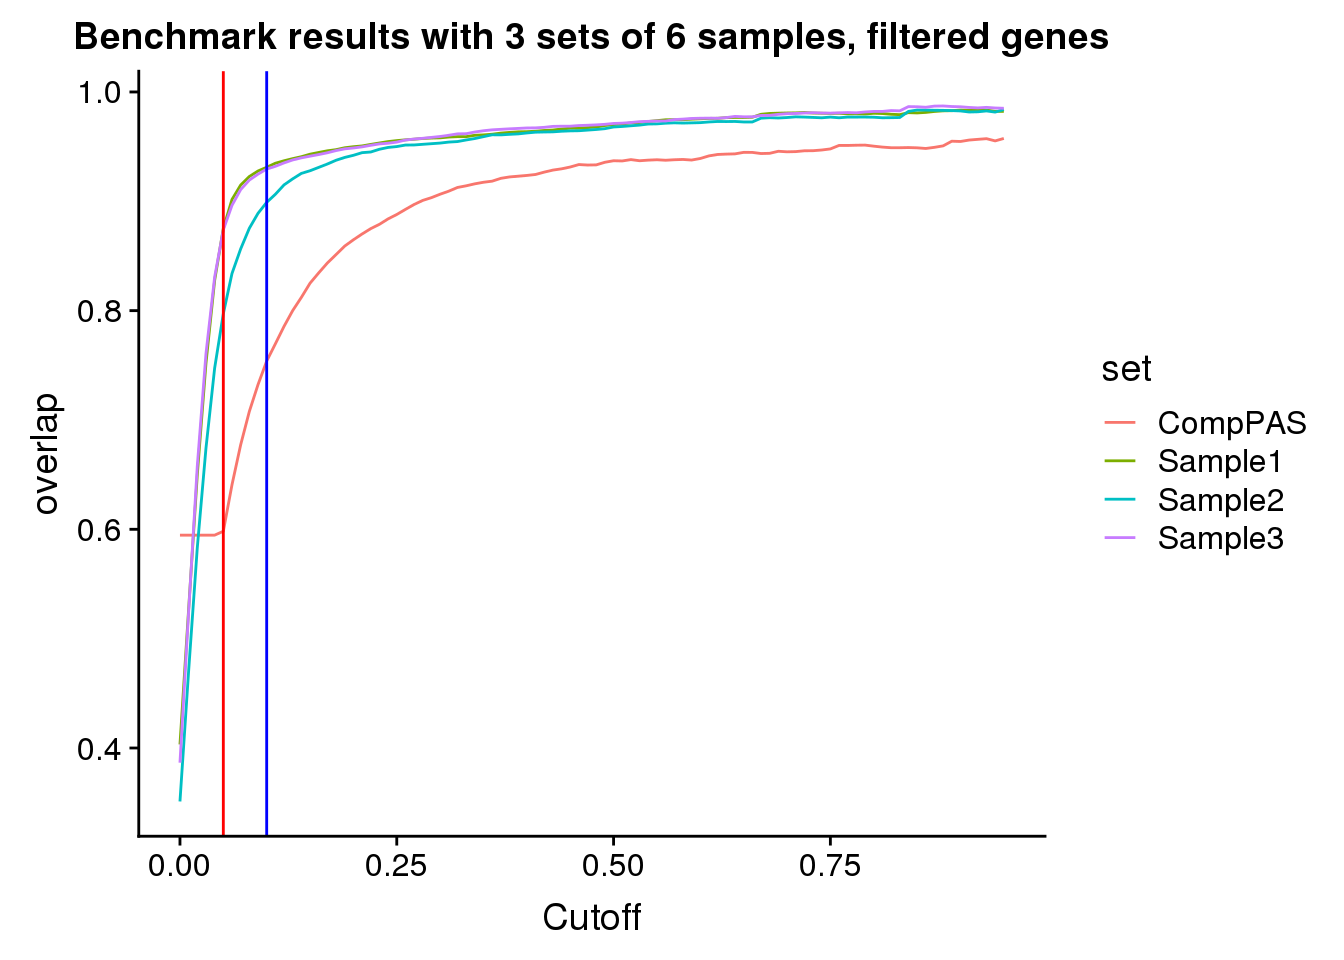
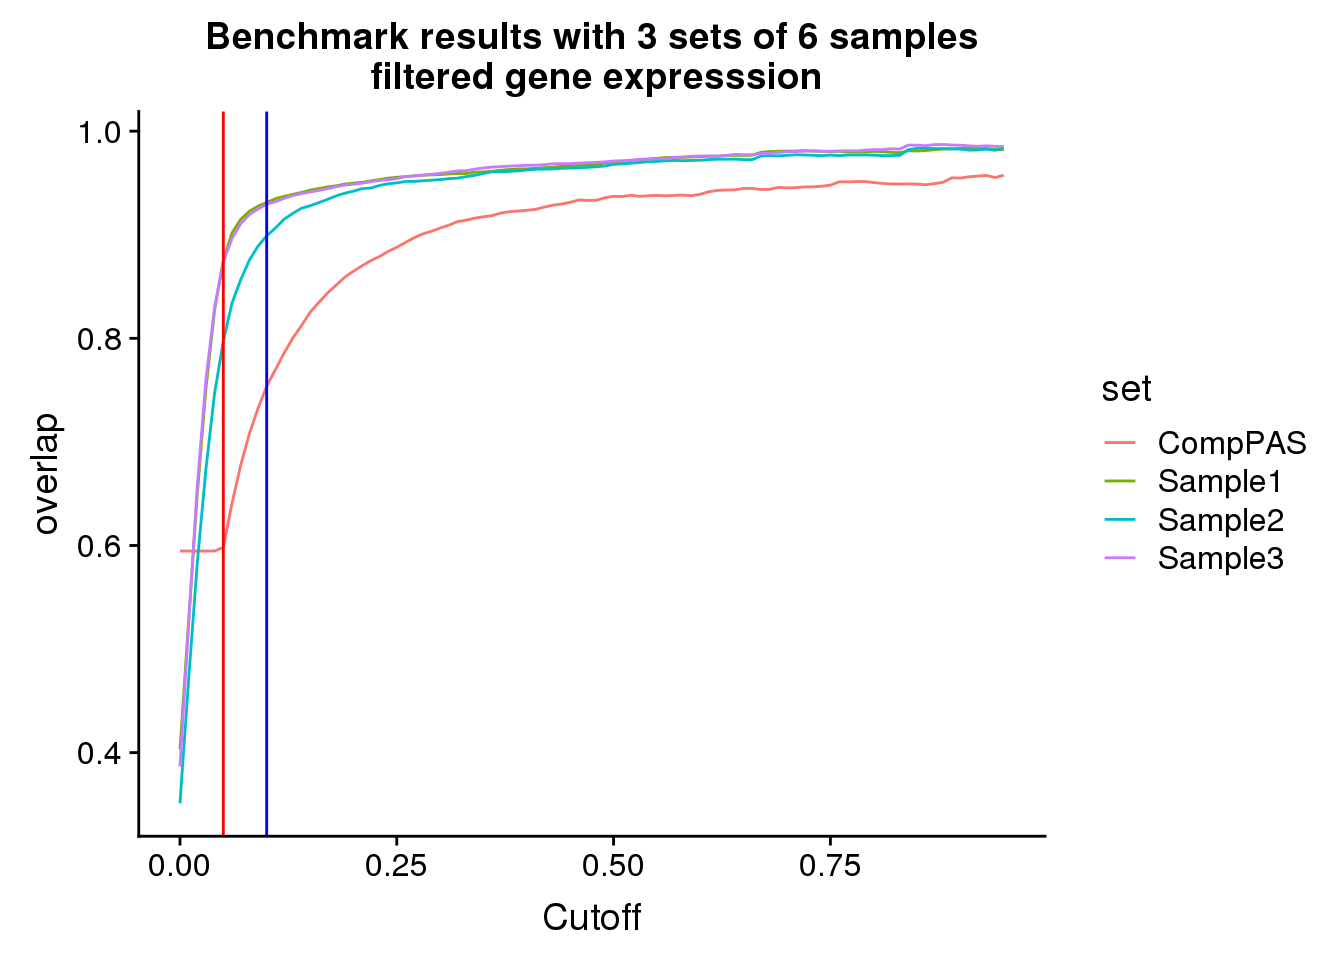
Build site.

diff --git a/docs/establishCutoffs.html b/docs/establishCutoffs.html
@@ -343,7 +343,7 @@ div.section {
 <div class="tab-content">
 <div id="summary" class="tab-pane fade in active">
 <p>
-<strong>Last updated:</strong> 2020-01-18
+<strong>Last updated:</strong> 2020-01-21
 </p>
 <p>
 <strong>Checks:</strong> <span class="glyphicon glyphicon-ok text-success" aria-hidden="true"></span> 7 <span class="glyphicon glyphicon-exclamation-sign text-danger" aria-hidden="true"></span> 0
@@ -434,10 +434,10 @@ This reproducible <a href="http://rmarkdown.rstudio.com">R Markdown</a> analysis
 <div class="panel panel-default">
 <div class="panel-heading">
 <p class="panel-title">
-<a data-toggle="collapse" data-parent="#workflowr-checks" href="#strongRepositoryversionstrongahrefhttpsgithubcombrimittlemanComparativeAPAtree7a9f60879915ace82b872f58d7209efd957b93a5targetblank7a9f608a"> <span class="glyphicon glyphicon-ok text-success" aria-hidden="true"></span> <strong>Repository version:</strong> <a href="https://github.com/brimittleman/Comparative_APA/tree/7a9f60879915ace82b872f58d7209efd957b93a5" target="_blank">7a9f608</a> </a>
+<a data-toggle="collapse" data-parent="#workflowr-checks" href="#strongRepositoryversionstrongahrefhttpsgithubcombrimittlemanComparativeAPAtreec27674c6d1dee0a9a99514500ecff762564723cdtargetblankc27674ca"> <span class="glyphicon glyphicon-ok text-success" aria-hidden="true"></span> <strong>Repository version:</strong> <a href="https://github.com/brimittleman/Comparative_APA/tree/c27674c6d1dee0a9a99514500ecff762564723cd" target="_blank">c27674c</a> </a>
 </p>
 </div>
[2 lines of base64/hex data omitted]
 <div class="panel-body">
 <p>
 Great! You are using Git for version control. Tracking code development and connecting the code version to the results is critical for reproducibility. The version displayed above was the version of the Git repository at the time these results were generated. <br><br> Note that you need to be careful to ensure that all relevant files for the analysis have been committed to Git prior to generating the results (you can use <code>wflow_publish</code> or <code>wflow_git_commit</code>). workflowr only checks the R Markdown file, but you know if there are other scripts or data files that it depends on. Below is the status of the Git repository when the results were generated:
@@ -986,6 +986,7 @@ Untracked files:
     Untracked:  data/TotalHvC/
     Untracked:  data/TwoBadSampleAnalysis/
     Untracked:  data/Wang_ribo/
+    Untracked:  data/apaQTLGenes/
     Untracked:  data/chainFiles/
     Untracked:  data/cleanPeaks_anno/
     Untracked:  data/cleanPeaks_byspecies/
@@ -1011,7 +1012,6 @@ Unstaged changes:
     Modified:   analysis/annotationInfo.Rmd
     Modified:   analysis/comp2apaQTLPAS.Rmd
     Modified:   analysis/correlationPhenos.Rmd
-    Modified:   analysis/expressioncutoff.Rmd
     Modified:   analysis/investigatePantro5.Rmd
     Modified:   analysis/multiMap.Rmd
     Modified:   analysis/speciesSpecific.Rmd
@@ -1053,6 +1053,40 @@ Message
 </tr>
 </thead>
 <tbody>
+<tr>
+<td>
+Rmd
+</td>
+<td>
+<a href="https://github.com/brimittleman/Comparative_APA/blob/c27674c6d1dee0a9a99514500ecff762564723cd/analysis/establishCutoffs.Rmd" target="_blank">c27674c</a>
+</td>
+<td>
+brimittleman
+</td>
+<td>
+2020-01-21
+</td>
+<td>
+remove disc in chimp
+</td>
+</tr>
+<tr>
+<td>
+html
+</td>
+<td>
+<a href="https://rawcdn.githack.com/brimittleman/Comparative_APA/c211e215cc82898901dd43dc9cfac50fbf10154d/docs/establishCutoffs.html" target="_blank">c211e21</a>
+</td>
+<td>
+brimittleman
+</td>
+<td>
+2020-01-18
+</td>
+<td>
+Build site.
+</td>
+</tr>
 <tr>
 <td>
 Rmd
@@ -1180,12 +1214,12 @@ add cutoff code files
 </div>
 </div>
 <pre class="r"><code>library(tidyverse)</code></pre>
-<pre><code>── Attaching packages ─────────────────────────────────────────────────────────────── tidyverse 1.2.1 ──</code></pre>
+<pre><code>── Attaching packages ─────────────────────────────────────────────────────────────────────────── tidyverse 1.2.1 ──</code></pre>
 <pre><code>✔ ggplot2 3.1.1       ✔ purrr   0.3.2  
 ✔ tibble  2.1.1       ✔ dplyr   0.8.0.1
 ✔ tidyr   0.8.3       ✔ stringr 1.3.1  
 ✔ readr   1.3.1       ✔ forcats 0.3.0  </code></pre>
-<pre><code>── Conflicts ────────────────────────────────────────────────────────────────── tidyverse_conflicts() ──
+<pre><code>── Conflicts ────────────────────────────────────────────────────────────────────────────── tidyverse_conflicts() ──
 ✖ dplyr::filter() masks stats::filter()
 ✖ dplyr::lag()    masks stats::lag()</code></pre>
 <pre class="r"><code>library(cowplot)</code></pre>
@@ -1525,6 +1559,17 @@ Date
 <tbody>
 <tr>
 <td>
+<a href="https://github.com/brimittleman/Comparative_APA/blob/c211e215cc82898901dd43dc9cfac50fbf10154d/docs/figure/establishCutoffs.Rmd/unnamed-chunk-20-1.png" target="_blank">c211e21</a>
+</td>
+<td>
+brimittleman
+</td>
+<td>
+2020-01-18
+</td>
+</tr>
+<tr>
+<td>
 <a href="https://github.com/brimittleman/Comparative_APA/blob/0c14f5143e61d931815912c7b07b18505db939e5/docs/figure/establishCutoffs.Rmd/unnamed-chunk-20-1.png" target="_blank">0c14f51</a>
 </td>
 <td>
@@ -1601,12 +1646,73 @@ FilteredRes=as.data.frame(cbind(seq_usage,overlapFilt1,overlapFilt2,overlapFilt3
 colnames(FilteredRes)= c(&quot;Cutoff&quot;,&quot;Sample1&quot;, &quot;Sample2&quot;, &quot;Sample3&quot;, &quot;CompPAS&quot;)
 
 FilteredRes_gather=FilteredRes %&gt;% gather(key=&quot;set&quot;, value=&quot;overlap&quot;,-Cutoff)</code></pre>
-<pre class="r"><code>filteredbench=ggplot(FilteredRes_gather,aes(x=Cutoff,y=overlap, by=set, col=set))+ geom_line() + labs(title=&quot;Benchmark results with 3 sets of 6 samples, filtered genes&quot;) + geom_vline(xintercept=.05,col=&quot;red&quot;)+ geom_vline(xintercept=.1,col=&quot;blue&quot;)
+<pre class="r"><code>filteredbench=ggplot(FilteredRes_gather,aes(x=Cutoff,y=overlap, by=set, col=set))+ geom_line() + labs(title=&quot;Benchmark results with 3 sets of 6 samples\n filtered gene expresssion&quot;) + geom_vline(xintercept=.05,col=&quot;red&quot;)+ geom_vline(xintercept=.1,col=&quot;blue&quot;)
 
 filteredbench</code></pre>
-<p><img src="figure/establishCutoffs.Rmd/unnamed-chunk-25-1.png" width="672" style="display: block; margin: auto;" /> Plot together:</p>
-<pre class="r"><code>plot_grid(bench,filteredbench)</code></pre>
-<p><img src="figure/establishCutoffs.Rmd/unnamed-chunk-26-1.png" width="672" style="display: block; margin: auto;" /></p>
+<p><img src="figure/establishCutoffs.Rmd/unnamed-chunk-25-1.png" width="672" style="display: block; margin: auto;" /></p>
+<p>
+<button type="button" class="btn btn-default btn-xs btn-workflowr btn-workflowr-fig" data-toggle="collapse" data-target="#fig-unnamed-chunk-25-1">
+Past versions of unnamed-chunk-25-1.png
+</button>
+</p>
+<div id="fig-unnamed-chunk-25-1" class="collapse">
+<div class="table-responsive">
+<table class="table table-condensed table-hover">
+<thead>
+<tr>
+<th>
+Version
+</th>
+<th>
+Author
+</th>
+<th>
+Date
+</th>
+</tr>
+</thead>
+<tbody>
+<tr>
+<td>
+<a href="https://github.com/brimittleman/Comparative_APA/blob/c211e215cc82898901dd43dc9cfac50fbf10154d/docs/figure/establishCutoffs.Rmd/unnamed-chunk-25-1.png" target="_blank">c211e21</a>
+</td>
+<td>
+brimittleman
+</td>
+<td>
+2020-01-18
+</td>
+</tr>
+</tbody>
+</table>
+</div>
+</div>
+<p>Last step is to remove the PAS that were discovered originally in chimp.</p>
+<pre class="r"><code>PASdisc=read.table(&quot;../data/PAS/PAS_5perc_either_HumanCoord_BothUsage_meta.txt&quot;, header = T, stringsAsFactors = F) %&gt;% filter(disc!=&quot;Chimp&quot;)</code></pre>
+<p>Filter and rerun loop for percent overlap. Only the actual need to be updated for this.</p>
+<pre class="r"><code>AllwOinfoExt_noChimp =AllwOinfoExt %&gt;% filter(PAS %in% PASdisc$PAS)</code></pre>
+<p>Rerun:</p>
+<pre class="r"><code>overlapFiltActualnoChimp=c()
+for (i in seq_usage){
+  x=AllwOinfoExt_noChimp %&gt;% filter(Human&gt;i) %&gt;% group_by(overlap) %&gt;% summarise(n=n())
+  yes=as.numeric(x[2,2])
+  total=as.numeric(x[2,2])+ as.numeric(x[1,2])
+  prop=yes/total
+  overlapFiltActualnoChimp=c(overlapFiltActualnoChimp,prop)
+}
+
+FilteredResNochimp=as.data.frame(cbind(seq_usage,overlapFilt1,overlapFilt2,overlapFilt3,overlapFiltActualnoChimp))
+colnames(FilteredResNochimp)= c(&quot;Cutoff&quot;,&quot;Sample1&quot;, &quot;Sample2&quot;, &quot;Sample3&quot;, &quot;CompPAS&quot;)  
+
+FilteredResNochimp_gather=FilteredResNochimp %&gt;% gather(key=&quot;set&quot;, value=&quot;overlap&quot;,-Cutoff)</code></pre>
+<pre class="r"><code>filteredbencnoChimop=ggplot(FilteredResNochimp_gather,aes(x=Cutoff,y=overlap, by=set, col=set))+ geom_line() + labs(title=&quot;Benchmark results with 3 sets of 6 samples\n filtered gene expresssion, remove discovered in Chimp&quot;) + geom_vline(xintercept=.05,col=&quot;red&quot;)+ geom_vline(xintercept=.1,col=&quot;blue&quot;)
+
+filteredbencnoChimop</code></pre>
+<p><img src="figure/establishCutoffs.Rmd/unnamed-chunk-29-1.png" width="672" style="display: block; margin: auto;" /></p>
+<p>Plot together:</p>
+<pre class="r"><code>plot_grid(bench,filteredbench,filteredbencnoChimop, nrow=1)</code></pre>
+<p><img src="figure/establishCutoffs.Rmd/unnamed-chunk-30-1.png" width="672" style="display: block; margin: auto;" /></p>
+<p>Looks like using a 10% usage and this expression cuttoff is pretty good.</p>
 <br>
 <p>
 <button type="button" class="btn btn-default btn-workflowr btn-workflowr-sessioninfo" data-toggle="collapse" data-target="#workflowr-sessioninfo" style="display: block;">
